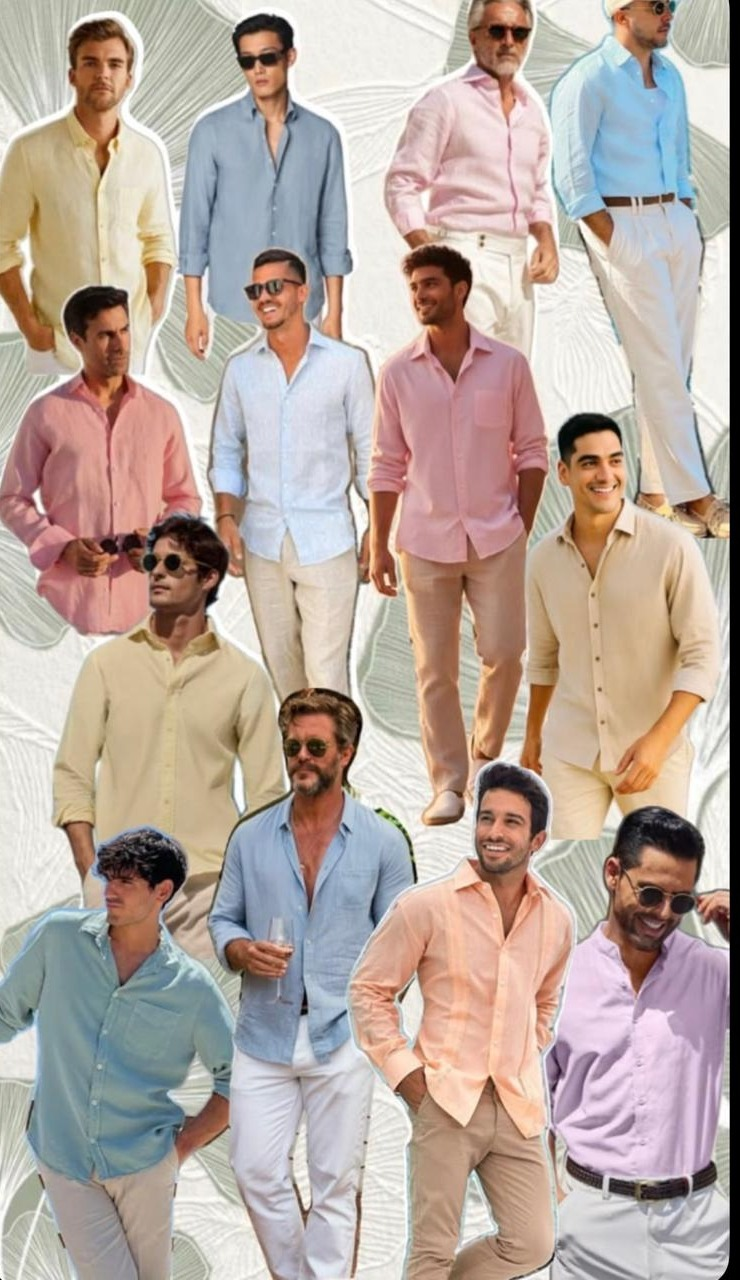
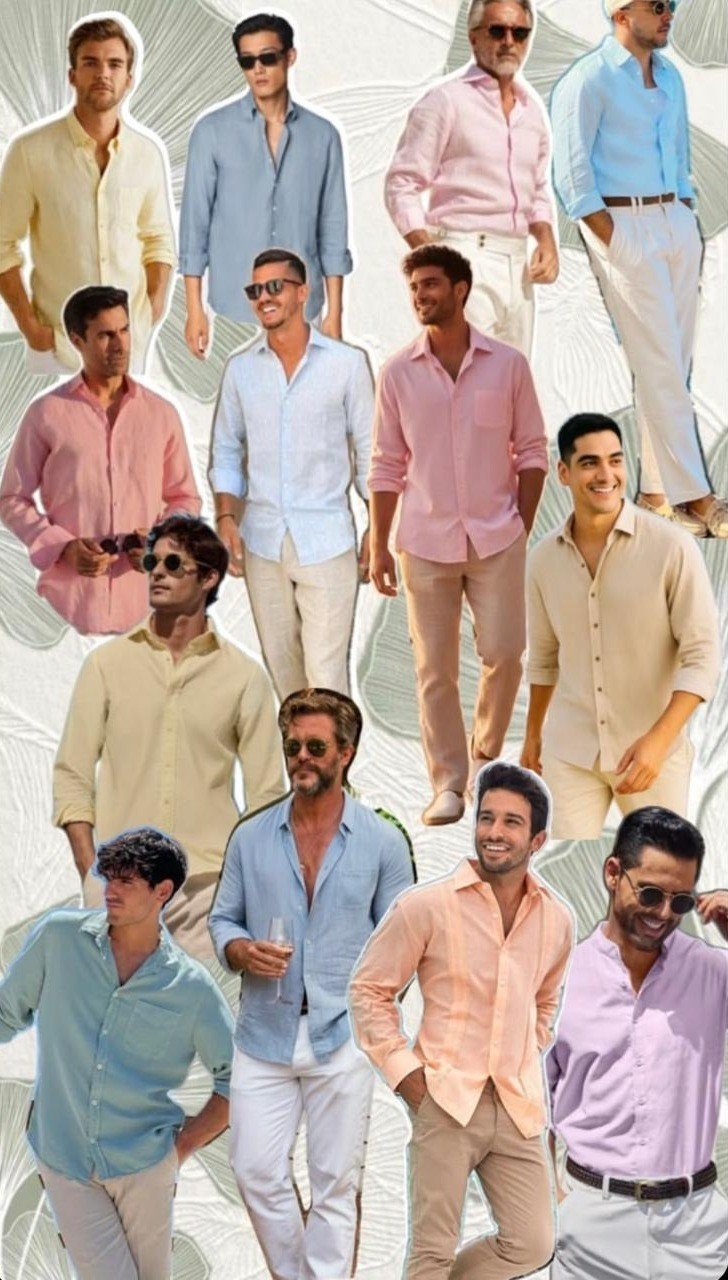
Update: font

diff --git a/public/assets/css/styles.css b/public/assets/css/styles.css
@@ -1,7 +1,8 @@
-@import url('https://fonts.googleapis.com/css2?family=Cormorant+Garamond:wght@500;600;700&family=Nunito+Sans:wght@400;500;600;700;800&display=swap');
+@import url('https://fonts.googleapis.com/css2?family=Allura&family=Nunito+Sans:wght@400;500;600;700;800&family=Playfair+Display:wght@500;600;700&display=swap');
 
 :root {
-  --font-heading: "Cormorant Garamond", Georgia, serif;
+  --font-script: "Allura", cursive;
+  --font-heading: "Playfair Display", Georgia, serif;
   --font-body: "Nunito Sans", Arial, sans-serif;
   --olive-dark: #626A59;
   --olive-deep: #343b31;
@@ -49,6 +50,50 @@ h3 {
   font-family: var(--font-heading);
 }
 
+.eyebrow,
+.btn,
+.nav-links,
+.form-row label,
+.detail-line strong,
+.info-card h3,
+.media-card label,
+.download-link,
+.selection-strip span,
+th,
+.stat span,
+.meta-pill strong,
+.meta-pill span {
+  font-family: var(--font-body);
+}
+
+.brand,
+.hero-title,
+.display-title,
+.hero-date,
+.save-date-details h2,
+.save-date-photo-card p,
+#kleredrag .section-title,
+#besonderhede .section-title,
+#rsvp-kortpad .section-title,
+#skedule .section-title,
+#akkommodasie .section-title,
+#bydrae .section-title,
+#vrae .section-title,
+#gallery-preview .section-title,
+.gallery-card .section-title,
+.script-title {
+  font-family: var(--font-script);
+  font-weight: 400;
+  letter-spacing: normal;
+}
+
+.section-title,
+.page-hero-card .section-title,
+.admin-page .section-title {
+  font-family: var(--font-heading);
+  font-weight: 600;
+}
+
 .skip-link {
   position: absolute;
   left: -999px;
@@ -91,6 +136,12 @@ h3 {
 .display-title { font-size: clamp(3.8rem, 9vw, 8.5rem); }
 .section-title { font-size: clamp(2.35rem, 5vw, 4.5rem); }
 .hero-title { font-size: clamp(3rem, 7vw, 7rem); }
+.display-title,
+.hero-title {
+  font-family: var(--font-script);
+  font-weight: 400;
+  letter-spacing: normal;
+}
 .lead {
   font-size: clamp(1.08rem, 1.6vw, 1.32rem);
   color: #54594f;
@@ -117,7 +168,8 @@ h3 {
   gap: 28px;
 }
 .brand {
-  font-family: var(--font-heading);
+  font-family: var(--font-script);
+  font-weight: 400;
   font-size: 1.55rem;
   color: var(--olive-deep);
   text-decoration: none;
@@ -228,8 +280,9 @@ h3 {
   margin: 24px auto 0;
 }
 .mobile-section-nav h2 {
-  font-family: var(--font-heading);
+  font-family: var(--font-body);
   font-size: 1.7rem;
+  font-weight: 800;
   margin: 0 0 12px;
   color: var(--olive-deep);
 }
@@ -376,14 +429,16 @@ h3 {
 
 .save-date-photo-frame.image-missing::before {
   content: "Kobus & Anika";
-  font-family: var(--font-heading);
+  font-family: var(--font-script);
+  font-weight: 400;
   font-size: 2rem;
   color: var(--olive-dark);
 }
 
 .save-date-photo-card p {
   margin: 18px 0 2px;
-  font-family: var(--font-heading);
+  font-family: var(--font-script);
+  font-weight: 400;
   font-size: clamp(1.55rem, 3vw, 2.1rem);
   line-height: 1;
 }
@@ -531,7 +586,13 @@ h3 {
   top: 6px;
   box-shadow: 0 0 0 8px rgba(98,106,89,.1);
 }
-.timeline-item strong { display: block; color: var(--olive-deep); font-size: 1.08rem; }
+.timeline-item strong {
+  display: block;
+  color: var(--olive-deep);
+  font-family: var(--font-body);
+  font-size: 1.08rem;
+  font-weight: 800;
+}
 .timeline-item span { color: var(--muted); line-height: 1.6; }
 
 .form {
@@ -1129,7 +1190,8 @@ td { color: #4f564c; }
 
 /* Premium wedding visual system */
 :root {
-  --font-heading: "Cormorant Garamond", Georgia, serif;
+  --font-script: "Allura", cursive;
+  --font-heading: "Playfair Display", Georgia, serif;
   --font-body: "Nunito Sans", Arial, sans-serif;
   --olive-dark: #626A59;
   --olive-deep: #353b32;
@@ -1226,7 +1288,42 @@ body::before {
 
 .brand {
   font-size: 1.7rem;
-  letter-spacing: -.025em;
+  font-family: var(--font-script);
+  font-weight: 400;
+  letter-spacing: normal;
+}
+
+.hero-title,
+.display-title,
+.hero-date,
+.save-date-details h2,
+.save-date-photo-card p,
+#kleredrag .section-title,
+#besonderhede .section-title,
+#rsvp-kortpad .section-title,
+#skedule .section-title,
+#akkommodasie .section-title,
+#bydrae .section-title,
+#vrae .section-title,
+#gallery-preview .section-title,
+.gallery-card .section-title,
+.script-title {
+  font-family: var(--font-script);
+  font-weight: 400;
+  letter-spacing: normal;
+}
+
+.section-title,
+.page-hero-card .section-title,
+.admin-page .section-title {
+  font-family: var(--font-heading);
+  font-weight: 600;
+}
+
+.script-title {
+  font-family: var(--font-script);
+  font-weight: 400;
+  letter-spacing: normal;
 }
 
 .nav-links a {
@@ -1453,9 +1550,10 @@ body::before {
 
 .hero-date {
   margin: 22px 0 0;
-  font-family: var(--font-heading);
+  font-family: var(--font-script);
+  font-weight: 400;
   font-size: clamp(1.35rem, 2vw, 1.9rem);
-  letter-spacing: .08em;
+  letter-spacing: normal;
   color: rgba(255, 255, 255, .94);
 }
 
@@ -1524,6 +1622,45 @@ body::before {
 .photo-pair img:last-child {
   aspect-ratio: 4 / 5;
   object-position: center;
+}
+
+#besonderhede .split > .fade-in:first-child {
+  padding: clamp(24px, 4vw, 44px);
+  border-radius: 38px;
+  background:
+    radial-gradient(circle at 0% 0%, rgba(239, 225, 220, .11), transparent 22rem),
+    radial-gradient(circle at 100% 100%, rgba(198, 203, 202, .12), transparent 24rem),
+    #454A41;
+  color: #fffaf2;
+  box-shadow: 0 24px 64px rgba(53, 59, 50, .2);
+}
+
+#besonderhede .split > .fade-in:first-child .eyebrow,
+#besonderhede .split > .fade-in:first-child .section-title,
+#besonderhede .split > .fade-in:first-child .lead,
+#besonderhede .split > .fade-in:first-child .detail-line strong,
+#besonderhede .split > .fade-in:first-child .detail-line span,
+#besonderhede .split > .fade-in:first-child .detail-line a {
+  color: #fffaf2;
+}
+
+#besonderhede .split > .fade-in:first-child .lead,
+#besonderhede .split > .fade-in:first-child .detail-line span {
+  opacity: .88;
+}
+
+#besonderhede .split > .fade-in:first-child .detail-line {
+  border-bottom-color: rgba(255, 250, 242, .18);
+}
+
+#besonderhede .photo-pair {
+  overflow: hidden;
+  background: rgba(255, 255, 255, .38);
+  border-color: rgba(98, 106, 89, .13);
+}
+
+#besonderhede .photo-pair img:first-child {
+  transform: none;
 }
 
 .single-photo {
@@ -1969,6 +2106,11 @@ select {
     padding: 10px;
     gap: 10px;
     border-radius: 24px;
+  }
+
+  #besonderhede .split > .fade-in:first-child {
+    padding: 20px;
+    border-radius: 28px;
   }
 
   .photo-pair img {

diff --git a/public/rsvp/index.html b/public/rsvp/index.html
@@ -27,7 +27,7 @@
     <div class="container split">
       <div class="page-intro fade-in">
         <p class="eyebrow">RSVP</p>
-        <h1 class="section-title">Laat weet ons asseblief</h1>
+        <h1 class="section-title script-title">Laat weet ons asseblief</h1>
         <p class="lead">Vul asseblief jou RSVP teen <strong>31 Augustus 2026</strong> in. Die vorm is kort en maklik.</p>
         <div class="occasion-note">
           <span>5 November 2026</span>